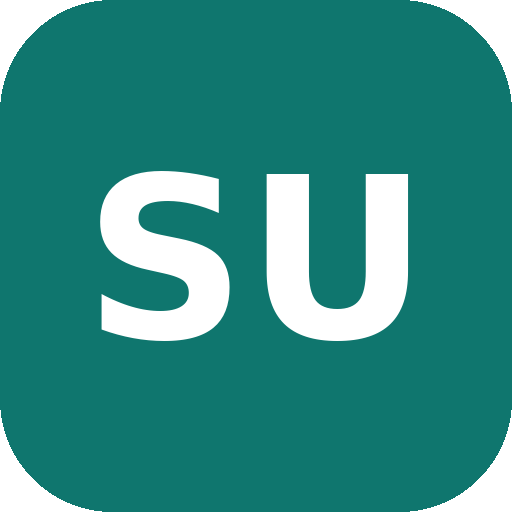
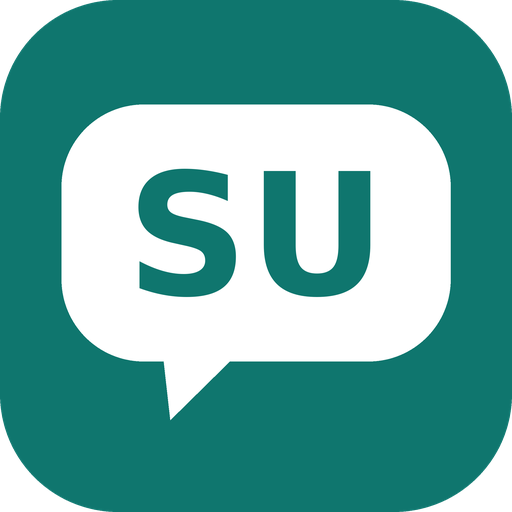
Nueva identidad visual: icono de burbuja, splash limpio y bienvenida rediseniada

diff --git a/styles.css b/styles.css
@@ -119,12 +119,7 @@ a  { color: var(--brand); }
   display: flex; align-items: center; gap: 12px;
 }
 .logo { display: flex; align-items: center; gap: 9px; font-weight: 800; font-size: 1.12rem; letter-spacing: -.02em; }
-.logo-mark {
-  width: 30px; height: 30px; border-radius: 9px; flex: none;
-  background: linear-gradient(135deg, var(--brand), var(--brand-strong));
-  display: grid; place-items: center; color: #fff; font-size: .82rem; font-weight: 800;
-}
-[data-theme="dark"] .logo-mark { color: #06231f; }
+.logo-mark { width: 30px; height: 30px; flex: none; display: block; border-radius: 8px; }
 .topbar-stats { margin-left: auto; display: flex; align-items: center; gap: 6px; }
 
 .stat-chip {
@@ -598,8 +593,37 @@ input:focus, select:focus, textarea:focus { border-color: var(--brand); }
 
 /* ---------- Onboarding ---------- */
 .onb { max-width: 520px; margin: 0 auto; }
-.onb-hero { text-align: center; padding: 24px 0 6px; }
-.onb-hero .logo-mark { width: 62px; height: 62px; border-radius: 18px; font-size: 1.4rem; margin: 0 auto 16px; }
+.onb-hero { text-align: center; padding: 30px 0 6px; }
+.onb-logo {
+  width: 88px; height: 88px; display: block; margin: 0 auto 18px; border-radius: 22px;
+  box-shadow: 0 10px 30px color-mix(in srgb, var(--brand) 28%, transparent);
+  animation: entrar .5s cubic-bezier(.2,.8,.3,1);
+}
+@keyframes entrar { from { opacity: 0; transform: translateY(12px) scale(.94); } to { opacity: 1; transform: none; } }
+.onb-hero h1 { font-size: 1.75rem; margin-bottom: .35em; }
+.onb-lema { color: var(--text-dim); font-size: 1rem; line-height: 1.6; max-width: 400px; margin: 0 auto; }
+
+.onb-puntos { display: grid; gap: 8px; margin: 24px 0 18px; }
+.onb-punto {
+  display: grid; grid-template-columns: 38px 1fr; grid-template-rows: auto auto;
+  gap: 0 12px; align-items: center;
+  background: var(--surface); border: 1px solid var(--border);
+  border-radius: var(--radius-sm); padding: 12px 14px;
+}
+.onb-punto > span {
+  grid-row: 1 / 3; width: 38px; height: 38px; border-radius: 11px;
+  background: var(--brand-soft); color: var(--brand-ink);
+  display: grid; place-items: center;
+}
+[data-theme="dark"] .onb-punto > span { color: var(--brand); }
+.onb-punto > span svg { width: 19px; height: 19px; }
+.onb-punto b { font-size: .92rem; align-self: end; }
+.onb-punto i { font-style: normal; font-size: .8rem; color: var(--text-dim); align-self: start; }
+
+@media (min-width: 620px) { .onb-puntos { grid-template-columns: repeat(3, 1fr); }
+  .onb-punto { grid-template-columns: 1fr; grid-template-rows: auto auto auto; text-align: center; gap: 6px; padding: 16px 12px; }
+  .onb-punto > span { grid-row: auto; margin: 0 auto; }
+}
 
 /* ---------- Aviso / banners ---------- */
 .notice {

diff --git a/app.js b/app.js
@@ -574,19 +574,28 @@ function viewOnboarding() {
   if (step === 1) {
     return '<div class="onb">' +
       '<div class="onb-hero">' +
-        '<div class="logo-mark">SU</div>' +
+        '<img class="onb-logo" src="icon-192.png" alt="" width="88" height="88">' +
         '<h1>Bienvenido a SpeakUp</h1>' +
-        '<p class="muted">Tu tutor personal de inglés. Te lleva desde cero hasta <b>B2</b>: hablar y entender con soltura, en el día a día y en los negocios.</p>' +
+        '<p class="onb-lema">Tu tutor personal de inglés. Desde cero hasta <b>B2</b>: hablar y entender con soltura, en el día a día y en los negocios.</p>' +
       '</div>' +
+
+      '<div class="onb-puntos">' +
+        [['chat', 'Habla', 'Conversa con un tutor que te corrige en español'],
+         ['headphones', 'Escucha', 'Diálogos reales a velocidad normal'],
+         ['cards', 'Recuerda', 'Repaso espaciado para que no se te olvide']]
+        .map(([i, t, d]) =>
+          '<div class="onb-punto"><span>' + ic(i) + '</span><b>' + t + '</b><i>' + d + '</i></div>').join('') +
+      '</div>' +
+
       '<div class="card">' +
         '<div class="field">' +
           '<label for="onbname">¿Cómo te llamas? <span class="muted" style="font-weight:400">(opcional)</span></label>' +
           '<input type="text" id="onbname" placeholder="Tu nombre" autocomplete="given-name" value="' + esc(S.name) + '">' +
           '<div class="hint">Lo usaremos para saludarte y para practicar presentaciones.</div>' +
         '</div>' +
-        '<button class="btn btn-primary btn-block" data-act="onb-next">Continuar ' + ic('right') + '</button>' +
+        '<button class="btn btn-primary btn-block" data-act="onb-next">Empezar ' + ic('right') + '</button>' +
       '</div>' +
-      '<p class="tiny muted center">Todo tu progreso se guarda en este navegador. No se envía a ningún servidor.</p>' +
+      '<p class="tiny muted center">Tu progreso se guarda en este dispositivo. Sin cuentas ni servidores.</p>' +
     '</div>';
   }
   return '<div class="onb">' +

diff --git a/sw.js b/sw.js
@@ -11,7 +11,7 @@
    petición que no sea a este mismo sitio.
    ============================================================ */
 
-const VERSION = 'speakup-v6';
+const VERSION = 'speakup-v7';
 
 const ESENCIALES = [
   './',
@@ -22,6 +22,7 @@ const ESENCIALES = [
   './manifest.json',
   './icon-192.png',
   './icon-512.png',
+  './icon-1024.png',
   './icon-maskable-512.png',
   './apple-touch-icon.png'
 ];

diff --git a/index.html b/index.html
@@ -25,7 +25,7 @@
 <header class="topbar">
   <div class="topbar-in">
     <div class="logo">
-      <span class="logo-mark" aria-hidden="true">SU</span>
+      <img class="logo-mark" src="icon-192.png" alt="" width="30" height="30">
       <span>SpeakUp</span>
     </div>
     <div class="topbar-stats">
